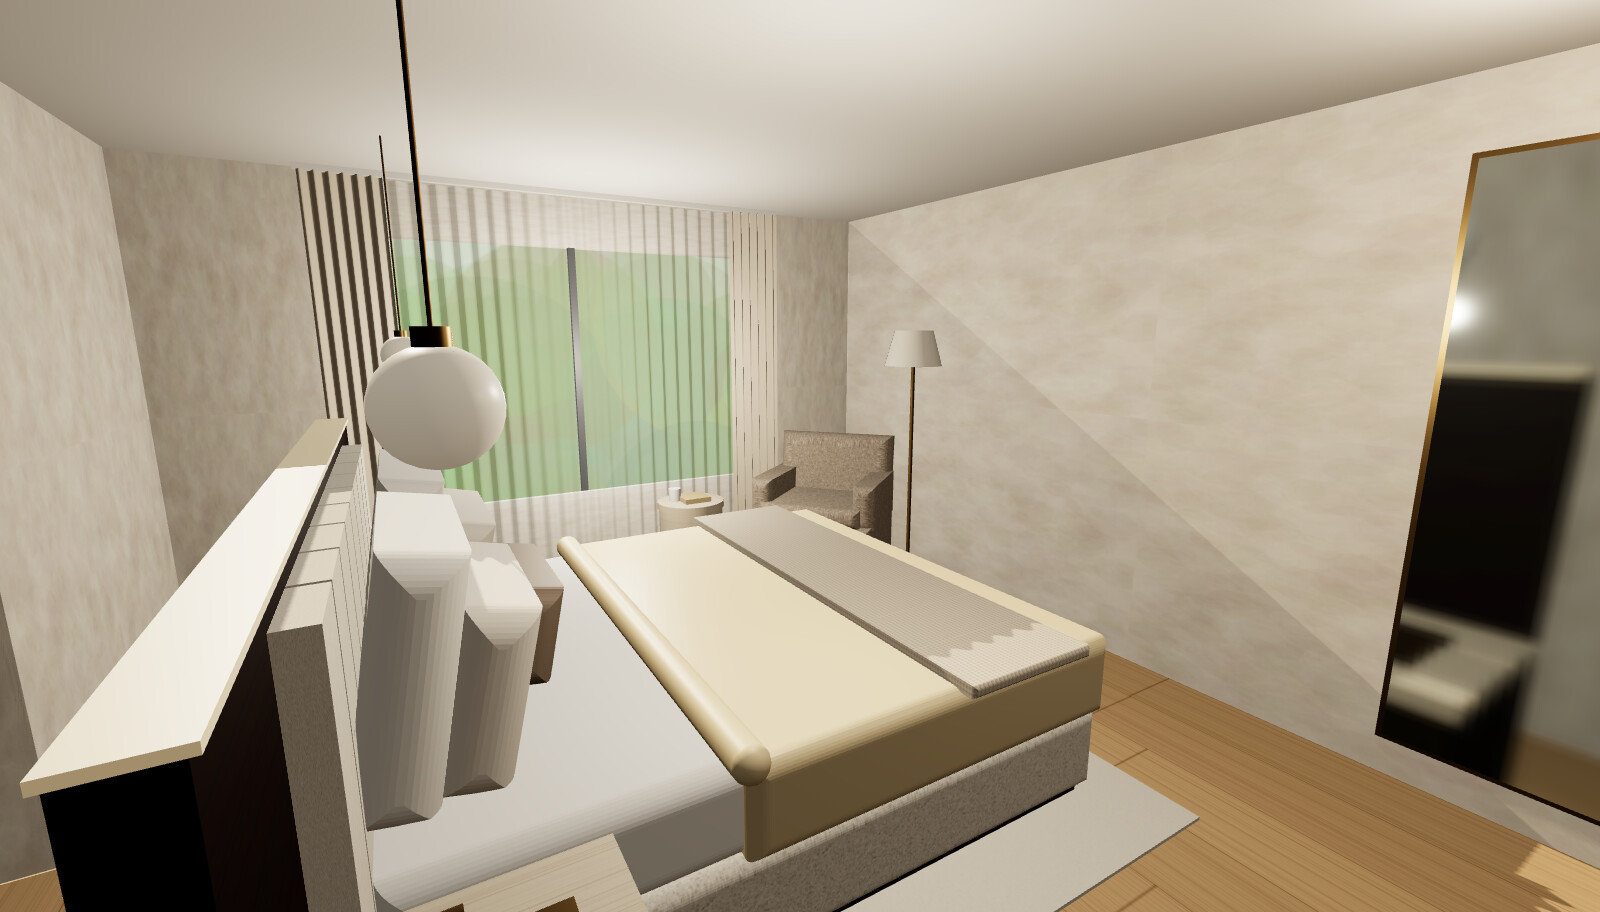
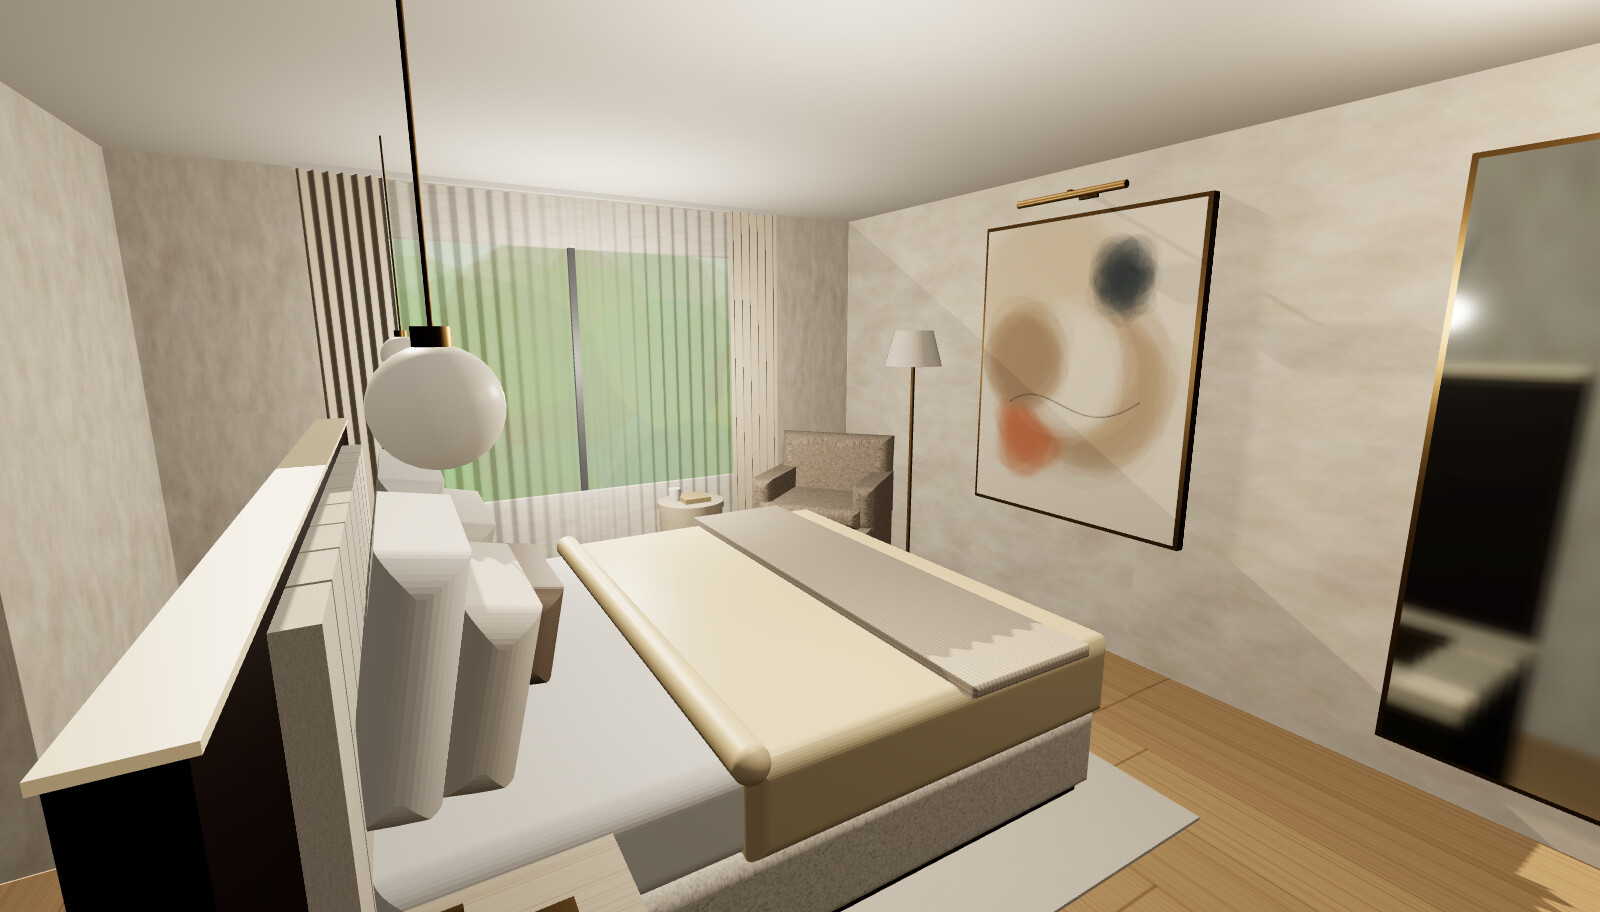
Add large abstract artwork with picture light on the west wall
Claude-Session: https://claude.ai/code/session_01P4LkCESWoGV8P5QgBbWSmy

Changed region(s): [[0.5938, 0.1842, 0.7812, 0.614], [0.625, 0.5526, 0.6875, 0.5833]]

diff --git a/renders/bedroom-1-3d.html b/renders/bedroom-1-3d.html
@@ -144,6 +144,19 @@ cyl(3.05,0.72,3.9,0.004,0.004,0.1,mat('#5d7a4c',0.8),6); pillow(3.05,0.78,3.9,0.
 box(2.8,3.08,0.56,0.57,1.5,1.75,brass); cyl(3.0,0.62,1.7,0.05,0.05,0.04,brass).rotation.z=Math.PI/2;
 
 // ---------- West wall: plain limewash plaster (no panelling, no TV) ----------
+// Large abstract artwork centred on bed (z 2.85): 1.2m wide x 1.5m high, bottom 0.65m, thin brass floater frame, brass picture light
+{ const art=canvasTex(600,750,(g,w,h)=>{ g.fillStyle='#ece3d4'; g.fillRect(0,0,w,h); const r=rnd(41);
+    const blobs=[['#d9c7ad',0.35,0.3,0.42],['#b89f84',0.62,0.55,0.34],['#c77d5a',0.3,0.72,0.16],['#3f4a52',0.7,0.2,0.1],['#efe6d6',0.5,0.5,0.25],['#a68c72',0.25,0.45,0.2]];
+    for(const [c,x,y,rr] of blobs){ for(let i=0;i<60;i++){ g.globalAlpha=0.05+r()*0.06; g.fillStyle=c; g.beginPath(); g.ellipse(x*w+(r()-0.5)*w*0.15,y*h+(r()-0.5)*h*0.15,rr*w*(0.6+r()*0.5),rr*h*(0.4+r()*0.4),r()*3,0,7); g.fill(); } }
+    g.globalAlpha=0.6; g.strokeStyle='#3f4a52'; g.lineWidth=3; g.beginPath(); g.moveTo(w*0.18,h*0.62); g.bezierCurveTo(w*0.4,h*0.5,w*0.55,h*0.75,w*0.82,h*0.58); g.stroke(); g.globalAlpha=1; });
+  box(0.0,0.045,0.63,2.17,2.23,3.47,brass);                                   // floater frame
+  box(0.045,0.05,0.65,2.15,2.25,3.45,mat('#ffffff',0.9,0,{map:art}));          // canvas face
+  // rotate texture to face east: draw on a plane instead for correct orientation
+  const pl=new THREE.Mesh(new THREE.PlaneGeometry(1.2,1.5),mat('#ffffff',0.9,0,{map:art})); pl.position.set(0.052,1.4,2.85); pl.rotation.y=Math.PI/2; pl.receiveShadow=true; scene.add(pl);
+  box(0.0,0.02,2.24,2.28,2.8,2.9,brass);                                      // light mount
+  box(0.02,0.16,2.255,2.265,2.84,2.86,brass);                                 // arm
+  cyl(0.16,2.24,2.85,0.018,0.018,0.6,brass,16).rotation.x=Math.PI/2;          // light bar
+}
 // (no TV, no TV unit)
 
 // ---------- Lounge nook (SW corner) ----------
